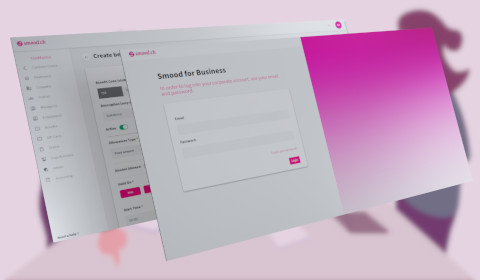
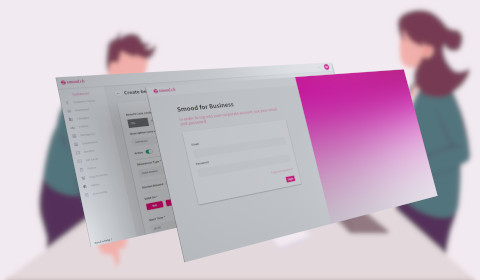
[FEATURE] Managing data for smood b2b

diff --git a/seeding/datas/articles/articles.js b/seeding/datas/articles/articles.js
@@ -30,6 +30,37 @@ module.exports = [
 		order: -1
 	},
 	{
+		title: 'Smood B2B',
+		slug: 'smood-b2b',
+		short_description: 'A B2B platform for giving benefits to your employees for Smood',
+		long_description: 'Lorem ipsum.',
+		client: 'Smood',
+		industry: 'Services',
+		position: 'Lead FullStack Developer',
+		tags: [
+			mongoose.Types.ObjectId('5f95461688489acdd8ee5871'), // Professional projects
+			mongoose.Types.ObjectId('5f95461688489acdd8ee5876'), // Javascript
+			mongoose.Types.ObjectId('5f95461688489acdd8ee5874'), // React
+			mongoose.Types.ObjectId('5f95461688489acdd8ee5878'), // Express
+			mongoose.Types.ObjectId('5f95461688489acdd8ee5895'), // UX/UI Design
+			mongoose.Types.ObjectId('5f95461688489acdd8ee5892'), // EsLint
+			mongoose.Types.ObjectId('5f95461688489acdd8ee5907'), // Typescript
+			mongoose.Types.ObjectId('5f95461688489acdd8ee5913'), // Storybook
+			mongoose.Types.ObjectId('5f95461688489acdd8ee5905'), // Node.js
+		],
+		images: [
+			mongoose.Types.ObjectId('5f9d88d3faed1e8c4dc00029')
+		],
+		slides: [
+			mongoose.Types.ObjectId('5f76018c9b16170aaaaa0001'),
+			mongoose.Types.ObjectId('5f76018c9b16170aaaaa0002'),
+			mongoose.Types.ObjectId('5f76018c9b16170aaaaa0003'),
+			mongoose.Types.ObjectId('5f76018c9b16170aaaaa0004'),
+		],
+		background_image: mongoose.Types.ObjectId('5f9d88d3ffed1e07aaa00001'),
+		order: -1
+	},
+	{
 		title: 'Smood Front',
 		slug: 'smood-front',
 		short_description: 'A uber-like website for ordering food.',
@@ -52,12 +83,12 @@ module.exports = [
 			mongoose.Types.ObjectId('5f9d88d3faed1e8c4dc00028')
 		],
 		slides: [
+			mongoose.Types.ObjectId('5f76018c9b16169aaaaa0001'),
 			mongoose.Types.ObjectId('5f76018c9b16169aaaaa0002'),
 			mongoose.Types.ObjectId('5f76018c9b16169aaaaa0003'),
 			mongoose.Types.ObjectId('5f76018c9b16169aaaaa0004'),
-			mongoose.Types.ObjectId('5f76018c9b16169aaaaa0005'),
 		],
-		background_image: mongoose.Types.ObjectId('5f9d88d3ffed1e07aaa00001'),
+		background_image: mongoose.Types.ObjectId('5f9d88d3ffad1e07aaa00001'),
 		order: -1
 	},
 	{

diff --git a/seeding/datas/slides/smood_b2b.js b/seeding/datas/slides/smood_b2b.js
@@ -1,0 +1,34 @@
+'use strict';
+
+const mongoose = require('mongoose');
+
+module.exports = [
+	{
+		id: mongoose.Types.ObjectId('5f76018c9b16170aaaaa0001'),
+		title: 'Presentation',
+		first_text: '-',
+		second_text: '-',
+		image: mongoose.Types.ObjectId('5f9d88d3ffad1e07aaa00002')
+	},
+	{
+		id: mongoose.Types.ObjectId('5f76018c9b16170aaaaa0002'),
+		title: 'Work',
+		first_text: '-',
+		second_text: '-',
+		image: mongoose.Types.ObjectId('5f9d88d3ffad1e07aaa00003')
+	},
+	{
+		id: mongoose.Types.ObjectId('5f76018c9b16170aaaaa0003'),
+		title: 'Work',
+		first_text: '-',
+		second_text: '-',
+		image: mongoose.Types.ObjectId('5f9d88d3ffad1e07aaa00004')
+	},
+	{
+		id: mongoose.Types.ObjectId('5f76018c9b16170aaaaa0004'),
+		title: 'Work',
+		first_text: '-',
+		second_text: '-',
+		image: mongoose.Types.ObjectId('5f9d88d3ffad1e07aaa00005')
+	}
+]

diff --git a/seeding/datas/images/smood_b2b.js b/seeding/datas/images/smood_b2b.js
@@ -1,0 +1,31 @@
+'use strict';
+
+const mongoose = require('mongoose');
+
+module.exports = [
+	{
+    	id: mongoose.Types.ObjectId("5f9d88d3ffad1e07aaa00001"),
+    	name: "Smood B2B Background",
+		path: "./assets/imgs/smood-b2b/background.jpg"
+	},
+	{
+		id: mongoose.Types.ObjectId("5f9d88d3ffad1e07aaa00002"),
+		name: "Smood B2B Slide 01",
+		path: "./assets/imgs/smood-b2b/slide_01.jpg"
+	},
+	{
+		id: mongoose.Types.ObjectId("5f9d88d3ffad1e07aaa00003"),
+		name: "Smood B2B Slide 02",
+		path: "./assets/imgs/smood-b2b/slide_02.jpg"
+	},
+	{
+		id: mongoose.Types.ObjectId("5f9d88d3ffad1e07aaa00004"),
+		name: "Smood B2B Slide 03",
+		path: "./assets/imgs/smood-b2b/slide_03.jpg"
+	},
+	{
+		id: mongoose.Types.ObjectId("5f9d88d3ffad1e07aaa00005"),
+		name: "Smood B2B Slide 05",
+		path: "./assets/imgs/smood-b2b/slide_04.jpg"
+	}
+]

diff --git a/seeding/datas/images/intro.js b/seeding/datas/images/intro.js
@@ -200,5 +200,11 @@ module.exports = [
 		name: 'SMOOD FRONT',
 		path: './assets/imgs/smood-front/intro.jpg',
 		path_low: './assets/imgs/smood-front/intro_low.jpg'
+	},
+	{
+		id: mongoose.Types.ObjectId('5f9d88d3faed1e8c4dc00029'),
+		name: 'SMOOD B2B',
+		path: './assets/imgs/smood-b2b/intro.jpg',
+		path_low: './assets/imgs/smood-b2b/intro_low.jpg'
 	}
 ];

diff --git a/seeding/seeder.js b/seeding/seeder.js
@@ -11,7 +11,6 @@ module.exports = {
 		return new Seeder(config);
 	},
 	seed: async () => {
-		console.log(mode, process.env.DB_URI_DATA)
 		const seeder = module.exports.get_seeder({
 			database: process.env.DB_URI_DATA,
 			dropDatabase: true,

diff --git a/src/pages/resume.vue b/src/pages/resume.vue
@@ -27,7 +27,7 @@
 				ref="iframe"
 				:class="{invisible: invisible}"
 				src="../libs/web/viewer.html?file=resume.pdf" />
-			<components_pubs
+			<components_pubs 
 				:invisible="invisible" />
 		</div>
 	</div>
